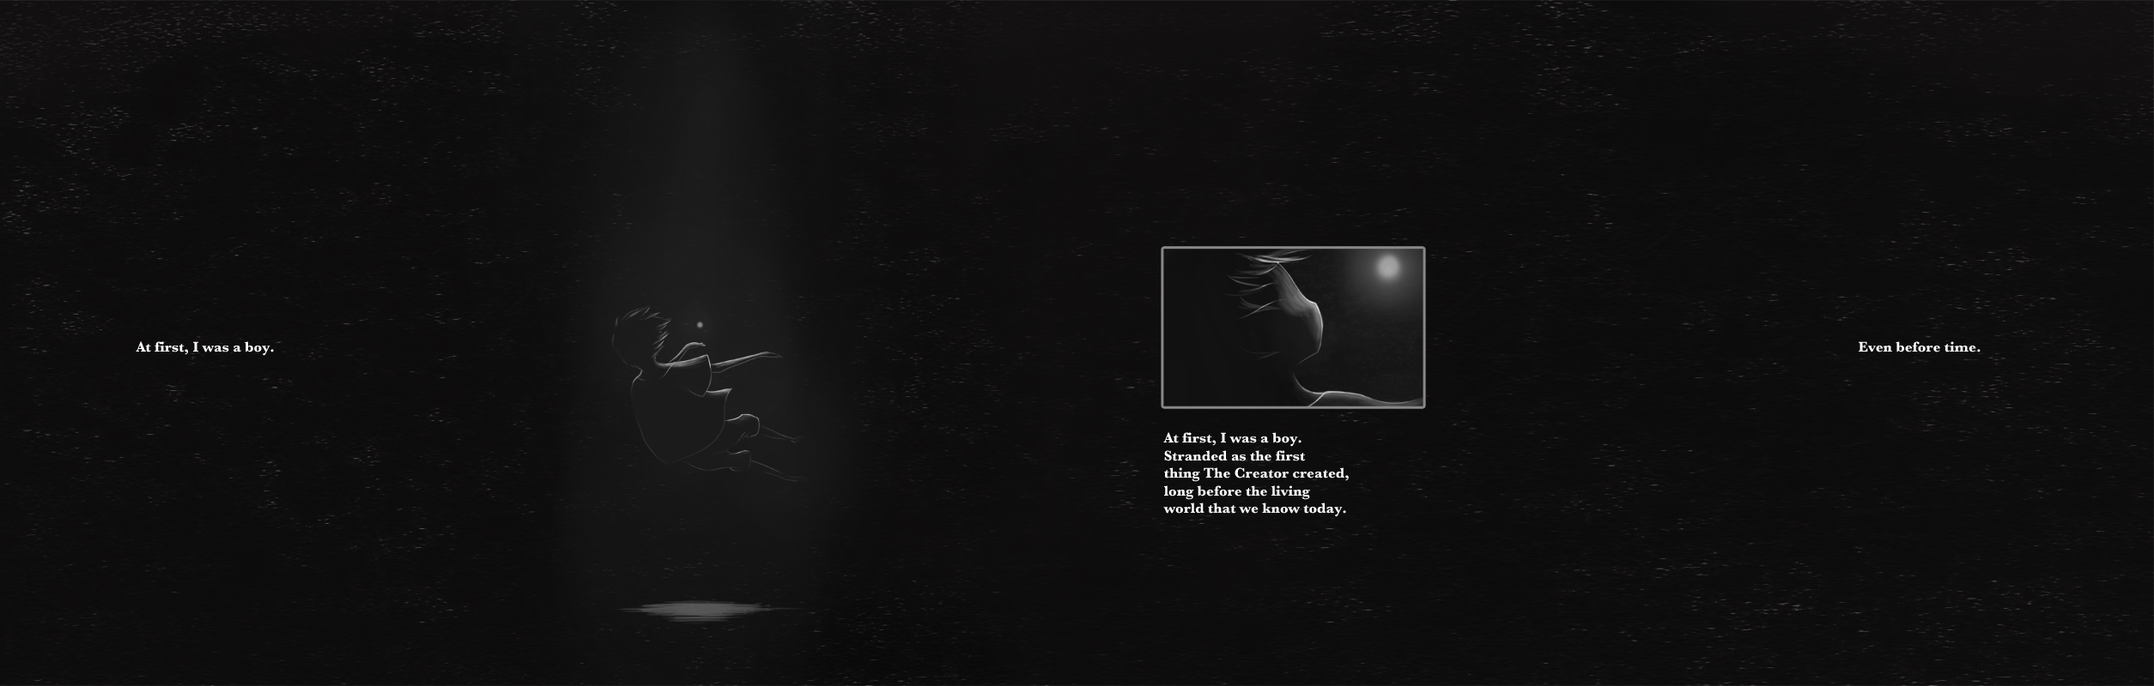
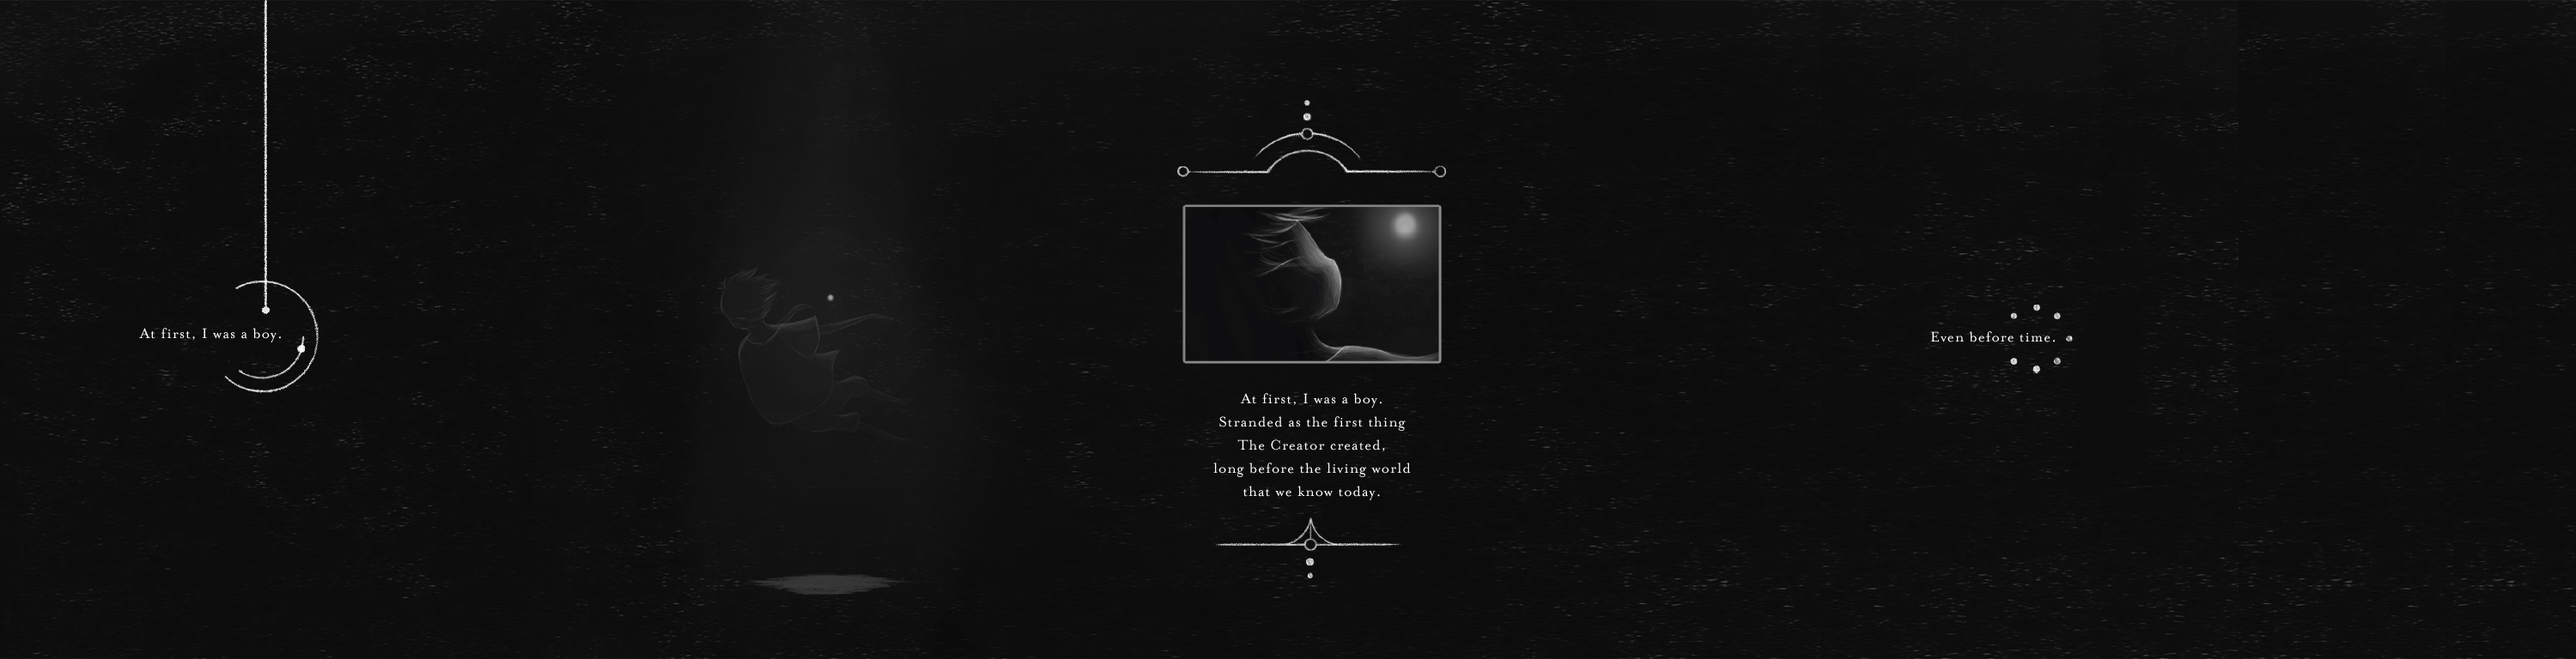
ch1 mobile version and various small features update

diff --git a/public/css/sunset/the-beginning-of-sunset-deity-01.css b/public/css/sunset/the-beginning-of-sunset-deity-01.css
@@ -1,9 +1,10 @@
 /*UTILITIES*/
-.horizon img{opacity: 0.1;}
+#main_bg > img{opacity:0.1; width: 100%;}
 .page{position: absolute;}
 #loader{position:fixed;top:65%;width:100%;background-color:rgba(0,0,0,0);height:100%;text-align:center;margin:0;padding:0;overflow:hidden;z-index: 600;}
 #loader img{opacity: 0.4;width: 20%;}
-/*DEFAULT: 1366 * 768*/
+
+/*DEFAULT: 1366 * 768
 @media only screen and (max-width : 1366px) {
 	.horizon{line-height: 0;z-index: 1;width: 2509px;}
 	.horizon img{opacity: 0.1;}
@@ -17,7 +18,7 @@
 	.element06{top: 335px;left: 6360px;} 
 }
 
-/* Large screens ----------- */
+/* Large screens ----------- 
 @media only screen and (min-width : 1367px) {
 	.horizon{width: 5006px;}
 	.horizon img{width: 5006px;}
@@ -37,7 +38,7 @@
 	.element06 img{width: 91px;} 
 }
 
-/* Smartphones (iphone landscape) ----------- */
+/* Smartphones (iphone landscape) ----------- 
 @media only screen and (max-width : 480px){
 	.horizon{width: 878px;}
 	.horizon img{width: 878px;}
@@ -57,7 +58,7 @@
 	.element06 img{width: 22px;} 
 }
 
-/* Smartphones (iphone portrait) ----------- */
+/* Smartphones (iphone portrait) ----------- 
 @media only screen and (max-width : 320px){
 	.horizon{width: 1405px;}
 	.horizon img{width: 1405px;}
@@ -98,7 +99,7 @@
 	.element06 img{width: 38px;}
 } */
 
-/* Smartphones (iphone5 landscape) ----------- */
+/* Smartphones (iphone5 landscape) ----------- 
 @media only screen and (min-device-width : 320px) and (max-device-width : 568px) and (orientation: landscape){
 	.horizon{width: 878px;}
 	.horizon img{width: 878px;}
@@ -118,7 +119,7 @@
 	.element06 img{width: 23px;} 
 }
 
-/* Smartphones (iphone5 portrait) ----------- */
+/* Smartphones (iphone5 portrait) ----------- 
 @media only screen (max-device-width : 320px) and (max-device-height : 568px){
 	.horizon{width: 577px;}
 	.horizon img{width: 577px;}
@@ -136,5 +137,4 @@
 	.element05 img{width: 38px;} 
 	.element06{top: 40px;left: 2544px;} 
 	.element06 img{width: 22px;} 
-}
-}
+}*/

diff --git a/public/js/sunset/the-beginning-of-sunset-deity-01.js b/public/js/sunset/the-beginning-of-sunset-deity-01.js
@@ -1,9 +1,23 @@
 $(document).ready( function () {
+
+	scaleLayer($('#main_bg'), 2509, 1);
+
+	scaleLayer($('#l01'), 3200, 250);
+	scaleElement($('#l01 > #element-02'), -130, 1175, 800);
+	scaleElement($('#l01 > #element-03'), 220, 1420, 210);
+
+	scaleLayer($('#l02'), 6500, 500);
+	scaleElement($('#l02 > #element-01'), -50, 510, 458);
+	scaleElement($('#l02 > #element-04'), 75, 3500, 563);
+	scaleElement($('#l02 > #element-05'), 310, 5440, 82);
+	scaleElement($('#l02 > #element-06'), 335, 6360, 36);
+
+
 	$.jInvertScroll(['.scroll']);
 	$("body").css("overflow-y", "hidden");
 
 	function anim(){
-		$("#lights img").animate({
+		$("#l01 img").animate({
 			opacity : 0.2
 		}, 1000).animate({
 			opacity : 1

diff --git a/public/css/sunset/the-beginning-of-sunset-deity-02-scalable.css b/public/css/sunset/the-beginning-of-sunset-deity-02-scalable.css
@@ -13,15 +13,3 @@
 #l01 > #s2_e3 > img{opacity: 0.7;}
 #l01 > #s2_e4 > img{opacity: 0.7;}
 #l12 > #kipas > img{opacity: 0.7;}
-
-body {
-	zoom: 1;
-    -moz-transform: scale(1);
-    -moz-transform-origin: 0 0;
-    -o-transform: scale(1);
-    -o-transform-origin: 0 0;
-    -webkit-transform: scale(1);
-    -webkit-transform-origin: 0 0;
-    transform: scale(2); /* Standard Property */
-    transform-origin: 0 0;  /* Standard Property */
-}

diff --git a/public/css/sunset/the-beginning-of-sunset-deity-tickets.css b/public/css/sunset/the-beginning-of-sunset-deity-tickets.css
@@ -1,6 +1,6 @@
 body{
 	font-family: 'Radley', serif !important;
-  background-color: rgb(247,245,240);
+  background-color: rgb(247,245,240) !important;
   color: rgb(84,84,84);
 }
 br {
@@ -14,6 +14,11 @@ br {
 
 .class p{margin-top: 25px;}
 .class input[type="radio"]{margin-left: -7px !important;}
+
+.faq a{color: rgb(84,84,84);}
+/*#faq-content{
+  background-color: rgb(247,245,240) !important;
+}*/
 
 input[type="text"].underlined
 {

diff --git a/public/js/sunset/the-beginning-of-sunset-deity-01-m.js b/public/js/sunset/the-beginning-of-sunset-deity-01-m.js
@@ -1,10 +1,9 @@
 $(document).ready( function () {
 
-	scaleLayer($('#main_bg'), 12228, 1);
+	scaleLayer($('#main_bg'), 3000, 1);
 
-	scaleLayer($('#l01'), 12228, 5);
-	scaleElement($('#next'), 350, 12119, 34);
-	scaleElement($('#back'), 350, 40, 34);
+	scaleLayer($('#l01'), 3000, 5);
+	scaleElement($('#next'), 341, 2900, 36);
 	
 	//$.jInvertScroll(['.scroll']);
 	$.jInvertScroll(['.scroll'], {

diff --git a/public/css/sunset/the-beginning-of-sunset-deity-01-m.css b/public/css/sunset/the-beginning-of-sunset-deity-01-m.css
@@ -1,0 +1,9 @@
+/*UTILITIES*/
+html, body {
+	height: 100%;
+	margin: 0;
+}
+.page{position: absolute;}
+#loader{position:fixed;height:100%;width:100%;background-color:rgba(0,0,0,255);text-align:center;margin:0;padding:0;overflow:hidden;z-index: 600;}
+#loader img{margin-top:25%;opacity: 0.4;width: 20%;}
+#main_bg > img{width: 100%;}

diff --git a/public/js/sunset/the-beginning-of-sunset-deity-02.js b/public/js/sunset/the-beginning-of-sunset-deity-02.js
@@ -22,6 +22,7 @@ $(document).ready( function () {
 	scaleElement($('#s3_b'), 274, 70529, 492);
 	scaleElement($('#s3_teks-a'), -95, 63250, 768);
 	scaleElement($('#next'), 350, 99910, 34);
+	scaleElement($('#back'), 350, 40, 34);
 
 	scaleLayer($('#l02'), 110000, 495);
 	scaleElement($('#l02 > #s2_sun'), 392, 27779, 374);

diff --git a/public/css/sunset/the-beginning-of-sunset-deity-announcement.css b/public/css/sunset/the-beginning-of-sunset-deity-announcement.css
@@ -4,7 +4,7 @@ body{
   color: rgb(84,84,84);
 }
 
-#prompt-ch2-content{
+#prompt-ch-content{
   background-color: rgb(247,245,240) !important;
 }
 

diff --git a/app/views/sunset/the-beginning-of-sunset-deity-tickets.blade.php b/app/views/sunset/the-beginning-of-sunset-deity-tickets.blade.php
@@ -135,6 +135,29 @@
 							{{Form::close()}}
 						</div>
 					</div>
+					<div id="row">
+						<div class="col-md-2 col-md-offset-5 text-center padding-0 faq">
+				    		<a href="" data-toggle="modal" data-target="#faq"><p>Read FAQ</p></a>
+						</div>
+						<div class="modal fade" id="faq" tabindex="-1" role="dialog" aria-labelledby="myModalLabel" aria-hidden="true">
+							<div class="modal-dialog">
+								<div id="faq-content" class="modal-content">
+									<div class="modal-body">
+										<button type="button" class="close" data-dismiss="modal" aria-label="Close"><span aria-hidden="true">&times;</span></button><br>
+										<p class="text-left"><b>1. Saya sudah memesan dan memasukkan data dalam website merchantofemotion.com, tetapi belum mendapatkan email konfirmasi. Apa yang harus saya lakukan?</b></p>
+										<p class="text-left">Anda bisa mencoba untuk memasukkan ulang data pemesanan dalam website (ada kemungkinan tidak stabilnya koneksi internet mempengaruhi input dalam website kami). Apabila email konfirmasi masih belum diterima setelah Anda memasukkan data kembali, silakan hubungi Dea di +6281910064981 atau email ke info@merchantofemotion.com. Kami akan hubungi Anda untuk konfirmasi dalam 1x24 jam.</p>
+										<p class="text-left"><b>2. Apakah saya dapat memilih tempat duduk di hari pertunjukan dalam kelas tiket yang telah saya beli?</b></p>
+										<p class="text-left">Tempat duduk untuk Pementasan Sunset Deity tersedia dalam dua kelas, yaitu VIP dan Reguler. Setelah mengecek kelas tiket yang Anda beli, pemilihan kursi dilakukan dengan sistem first-come, first-served—ada baiknya Anda datang lebih awal untuk mendapatkan tempat duduk menonton yang ideal menurut Anda.</p>
+										<img src="{{asset('images/sunset/the-beginning-of-sunset-deity-tickets/seats.jpg')}}" class="center-block img-responsive">
+										<p class="text-left"><b>3. Apakah ada diskon pembelian tiket untuk pementasan ini?</b><p>
+										<p class="text-left">Kami memberikan promo diskon untuk dua kategori pembelian, khusus pemesanan offline (melalui  narahubung Dea di +6281910064981 atau LINE ID: deacm). Dapatkan diskon 10% untuk pelajar (dengan menyertakan kartu pelajar) untuk seluruh pertunjukan petang (16.00) pada 23-25 Januari 2015, juga diskon akhir tahun sebesar 10% untuk seluruh kelas tiket di seluruh pertunjukan (petang dan malam) mulai dari 25 Desember 2014 hingga 1 Januari 2015. <p>
+										<p class="text-left"><b>4. Jika saya telah memesan tiket pada hari dan waktu pertunjukan tertentu, apakah dapat saya tukar dengan hari dan waktu pertunjukan lain?</b><p>
+										<p class="text-left">Sehubungan dengan terbatasnya kursi yang tersebar dalam 6 kali pertunjukan berbeda (23-25 Januari 2015, petang dan malam untuk masing-masing harinya), dengan menyesal kami tidak menerima penukaran tiket untuk hari dan waktu pertunjukan berbeda. Mohon pastikan jadwal Anda sebelum memesan kelas tiket. <p>
+									</div>
+								</div>
+							</div>
+						</div>
+					</div>
 					<div class="row">
 						<div class="col-xs-8 col-xs-offset-2 text-center">
 							@if(Session::has('success'))

diff --git a/app/views/sunset/the-beginning-of-sunset-deity-announcement.blade.php b/app/views/sunset/the-beginning-of-sunset-deity-announcement.blade.php
@@ -15,7 +15,6 @@
     	<div class="col-md-12 text-center padding-0">
     		<img src="{{asset('images/sunset/the-beginning-of-sunset-deity-announcement/poster.jpg')}}" class="center-block img-responsive">
 		</div>
-		</div>
     	<div class="container">
     		<div class="row">
 	    		<div class="col-md-4 col-md-offset-1 desc">
@@ -50,7 +49,36 @@
 			</div>
 		</div>
 		<div class="col-md-12 text-center padding-0">
-    		<a href="http://merchantofemotion.com/the-beginning-of-sunset-deity/01"><img src="{{asset('images/sunset/the-beginning-of-sunset-deity-announcement/chapter 1.png')}}" class="center-block img-responsive"></a>
+    		<a href="" data-toggle="modal" data-target="#prompt-ch1"><img src="{{asset('images/sunset/the-beginning-of-sunset-deity-announcement/chapter 1.png')}}" class="center-block img-responsive"></a>
+		</div>
+		<!-- ch1 Modal -->
+		<div class="modal fade" id="prompt-ch1" tabindex="-1" role="dialog" aria-labelledby="myModalLabel" aria-hidden="true">
+			<div class="modal-dialog">
+				<div id="prompt-ch-content" class="modal-content">
+					<div class="modal-body">
+						<div>
+							<img src="{{asset('images/sunset/the-beginning-of-sunset-deity-announcement/border.png')}}" class="center-block img-responsive">
+						</div>
+						<br/>
+						<br/>
+						<div>
+							<a href="http://merchantofemotion.com/the-beginning-of-sunset-deity/01"><img src="{{asset('images/sunset/the-beginning-of-sunset-deity-announcement/animation.png')}}" class="center-block img-responsive"></a>
+						</div>
+						<br/>
+						<br/>
+						<br/>
+						<br/>
+						<div>
+							<a href="http://merchantofemotion.com/the-beginning-of-sunset-deity/01-m"><img src="{{asset('images/sunset/the-beginning-of-sunset-deity-announcement/light.png')}}" class="center-block img-responsive"></a>
+						</div>
+						<br/>
+						<br/>
+						<div>
+							<img src="{{asset('images/sunset/the-beginning-of-sunset-deity-announcement/border.png')}}" class="center-block img-responsive">
+						</div>
+					</div>
+				</div>
+			</div>
 		</div>
 		<div class="col-md-12 text-center padding-0 to-ch2">
     		<a href="" data-toggle="modal" data-target="#prompt-ch2"><img src="{{asset('images/sunset/the-beginning-of-sunset-deity-announcement/chapter 2.png')}}" class="center-block img-responsive"></a>
@@ -58,7 +86,7 @@
 		<!-- ch2 Modal -->
 		<div class="modal fade" id="prompt-ch2" tabindex="-1" role="dialog" aria-labelledby="myModalLabel" aria-hidden="true">
 			<div class="modal-dialog">
-				<div id="prompt-ch2-content" class="modal-content">
+				<div id="prompt-ch-content" class="modal-content">
 					<div class="modal-body">
 						<div>
 							<img src="{{asset('images/sunset/the-beginning-of-sunset-deity-announcement/border.png')}}" class="center-block img-responsive">
@@ -83,7 +111,6 @@
 					</div>
 				</div>
 			</div>
-		</div>
 		</div>
     </body>
 </html>

diff --git a/app/views/sunset/the-beginning-of-sunset-deity-01.blade.php b/app/views/sunset/the-beginning-of-sunset-deity-01.blade.php
@@ -1,6 +1,7 @@
 @extends('layouts.sunset.the-beginning-of-sunset-deity')
 
 @section('head-data')
+	{{ HTML::script('js/scale.js'); }}
 	{{ HTML::script('js/sunset/the-beginning-of-sunset-deity-01.js'); }}
 	{{ HTML::style('css/sunset/the-beginning-of-sunset-deity-01.css'); }}
 	<link rel="shortcut icon" href="{{ asset('images/sunset/the-beginning-of-sunset-deity-01/nameless.png') }}">
@@ -17,29 +18,29 @@
 	<div id="loader">
 	    <img src="{{asset('images/sunset/the-beginning-of-sunset-deity-01/loading.gif')}}" width="40%">
 	</div> 
-	<div class="horizon scroll">
+	<div id="main_bg" class="scroll">
 		<img alt="" src="{{asset('images/sunset/the-beginning-of-sunset-deity-01/titik-titik.jpg')}}">
 	</div>
-	<div class="middle scroll" id = "lights">
-		<div class="element02 page">   
+	<div id="l01" class="scroll">
+		<div id="element-02" class="page">   
 			<img alt="" src="{{asset('images/sunset/the-beginning-of-sunset-deity-01/cahaya.png')}}">
 		</div>
-		<div class="element03 page">
+		<div id="element-03" class="page">
 			<img alt="" src="{{asset('images/sunset/the-beginning-of-sunset-deity-01/nameless.png')}}">
 		</div>
 	</div>
-	<div class="front scroll">
-		<div class="element01 page" id = "element-01">
+	<div id="l02" class="scroll">
+		<div id="element-01" class="page">
 			<img alt="" src="">
 		</div>
-		<div class="element04 page">
+		<div id="element-04" class="page">
 			<img alt="" src="{{asset('images/sunset/the-beginning-of-sunset-deity-01/2.png')}}">
 		</div>
-		<div class="element05 page">
+		<div id="element-05" class="page">
 			<img alt="" src="{{asset('images/sunset/the-beginning-of-sunset-deity-01/3.gif')}}">
 		</div>
-		<div class="element06 page">
-			<a href="http://merchantofemotion.com/the-beginning-of-sunset-deity/announcement"><img alt="" src="{{asset('images/sunset/the-beginning-of-sunset-deity-01/next.png')}}"></a>
+		<div id="element-06" class="page">
+			<a href="http://merchantofemotion.com/the-beginning-of-sunset-deity/02"><img alt="" src="{{asset('images/sunset/the-beginning-of-sunset-deity-01/next.png')}}"></a>
 		</div>
 	</div>
 @stop

diff --git a/app/views/sunset/the-beginning-of-sunset-deity-01-m.blade.php b/app/views/sunset/the-beginning-of-sunset-deity-01-m.blade.php
@@ -1,0 +1,31 @@
+@extends('layouts.sunset.the-beginning-of-sunset-deity')
+
+@section('head-data')
+	{{ HTML::script('js/scale.js'); }}
+	{{ HTML::script('js/sunset/the-beginning-of-sunset-deity-01-m.js'); }}
+	{{ HTML::style('css/sunset/the-beginning-of-sunset-deity-01-m.css'); }}
+	<link rel="shortcut icon" href="{{ asset('images/sunset/the-beginning-of-sunset-deity-01/nameless.png') }}">
+	<meta name="viewport" content="width=device-width, initial-scale=1.0">
+	<meta name="description" content="At first, I was a boy. Stranded as the first thing The Creator created, long before the living world that we know today. Even before time.">
+
+@stop
+
+@section('tab-title')
+	<title>The Beginning of Sunset Deity: 01</title>
+@stop
+
+@section('content')
+	<div id="loader">
+	    <img src="{{asset('images/sunset/the-beginning-of-sunset-deity-01/loading.gif')}}" width="40%">
+	</div> 
+	<div id="main_bg" class="scroll">
+		<img alt="" src="{{asset('images/sunset/the-beginning-of-sunset-deity-01/chapter1.jpg')}}">
+	</div>
+	<div id="l01" class="scroll">
+		<div id="next" class="page">
+			<a href="http://merchantofemotion.com/the-beginning-of-sunset-deity/02-m-a"><img alt="" src="{{asset('images/sunset/the-beginning-of-sunset-deity-01/next.png')}}"></a>
+		</div>
+	</div>
+@stop
+
+
